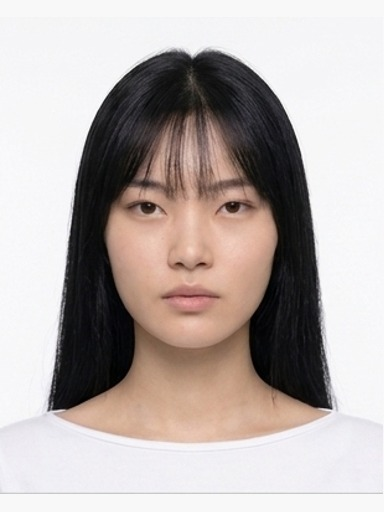
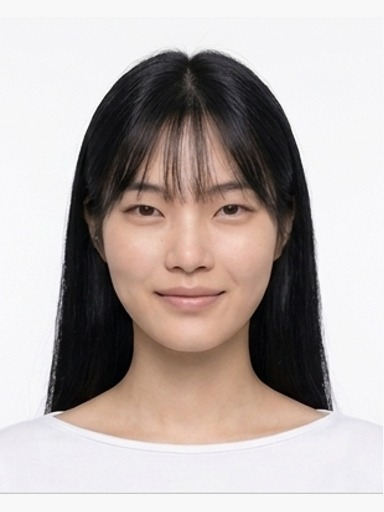
234323432

diff --git a/src/app/models/page.js b/src/app/models/page.js
@@ -60,7 +60,7 @@ const CATEGORIES = [
         code: 'D', name: '동아시아계 · 롱 블랙 스트레이트 · 쿨/에디토리얼',
         size: '키 173cm · 슬림 장신 (Max 170 기준 살짝 크게)',
         identity: '동아시아계 성인 여성 20대 초중반 · 슬림 타원형 · 롱 블랙 스트레이트(중앙 가르마) · 쿨·에디토리얼 · 자연 피부질감',
-        ref: `${FTP}/B_D_rep.jpg?v=neutral`,
+        ref: `${FTP}/B_D_rep.jpg?v=smile2`,
         sheets: { face: `${FTP}/B_D_face.png?v=hairD3`, expr: `${FTP}/B_D_expr.png?v=hair`, body: `${FTP}/B_D_body.png?v=hair`, pose: `${FTP}/B_D_pose.png?v=v3` },
         soulId: null, status: '얼굴 시트 ✅ · 표정/바디/포즈 대기',
       },
